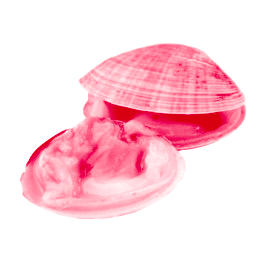
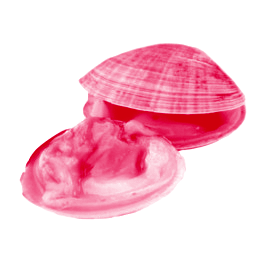
6th clam

Changed region(s): [[0.0615, 0.1538, 0.9538, 0.8615]]

diff --git a/1st clam site/clams_css.css b/1st clam site/clams_css.css
@@ -89,6 +89,9 @@ p {
     width: 600px;
     display: block;
     margin: 0 auto;
+    padding-left: 60px;
+	padding-right: 60px;
+
 }
 
 @-webkit-keyframes Floatingx {
@@ -122,14 +125,12 @@ main div {
   padding-bottom: 45px;
   width: 200px;
   margin: 0 auto;
-  mix-blend-mode: multiply;
   text-align: center;
   display: inline;
 }
 
 div.picwrapper {
 	text-align: center;
-	opacity: .8;
 	margin: auto;
 	width: 100%;
 	padding-left: 60px;

diff --git a/1st clam site/so small clams.html b/1st clam site/so small clams.html
@@ -15,7 +15,7 @@
 
         <h1>Florida Man Repeatedly Calls 911 on Restaurant's 'Extremely So Small' Clams</h1>
 
-        <h2>Sounds like a case for <i>small clams</i> court.        </h2>
+        <h2>Sounds like a case for <i>small clams</i> court.</h2>
         <br />
 
 
